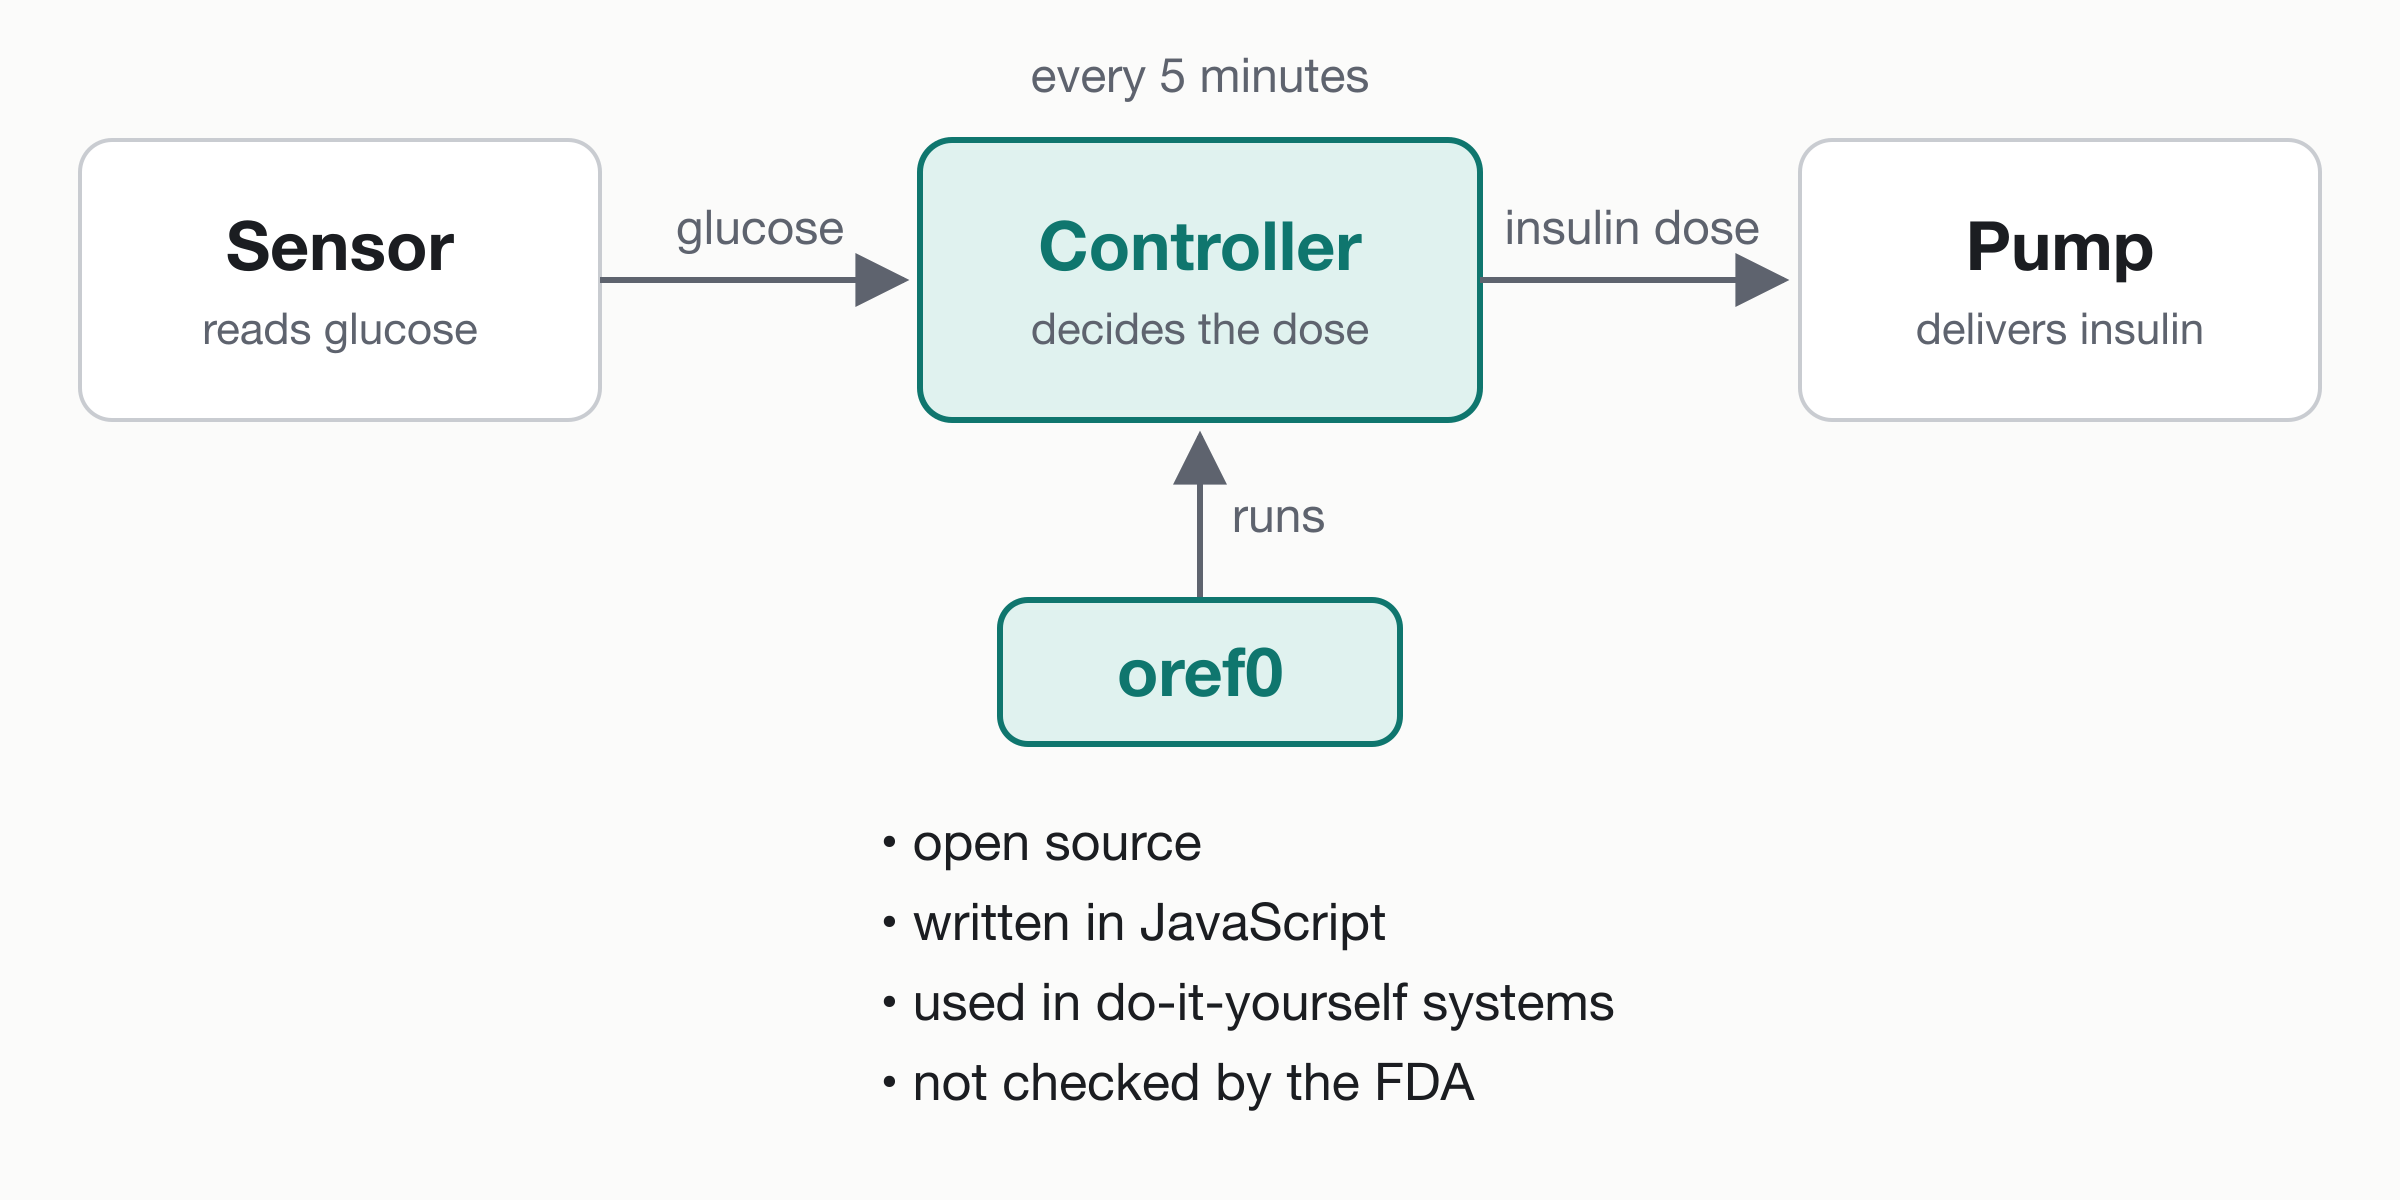
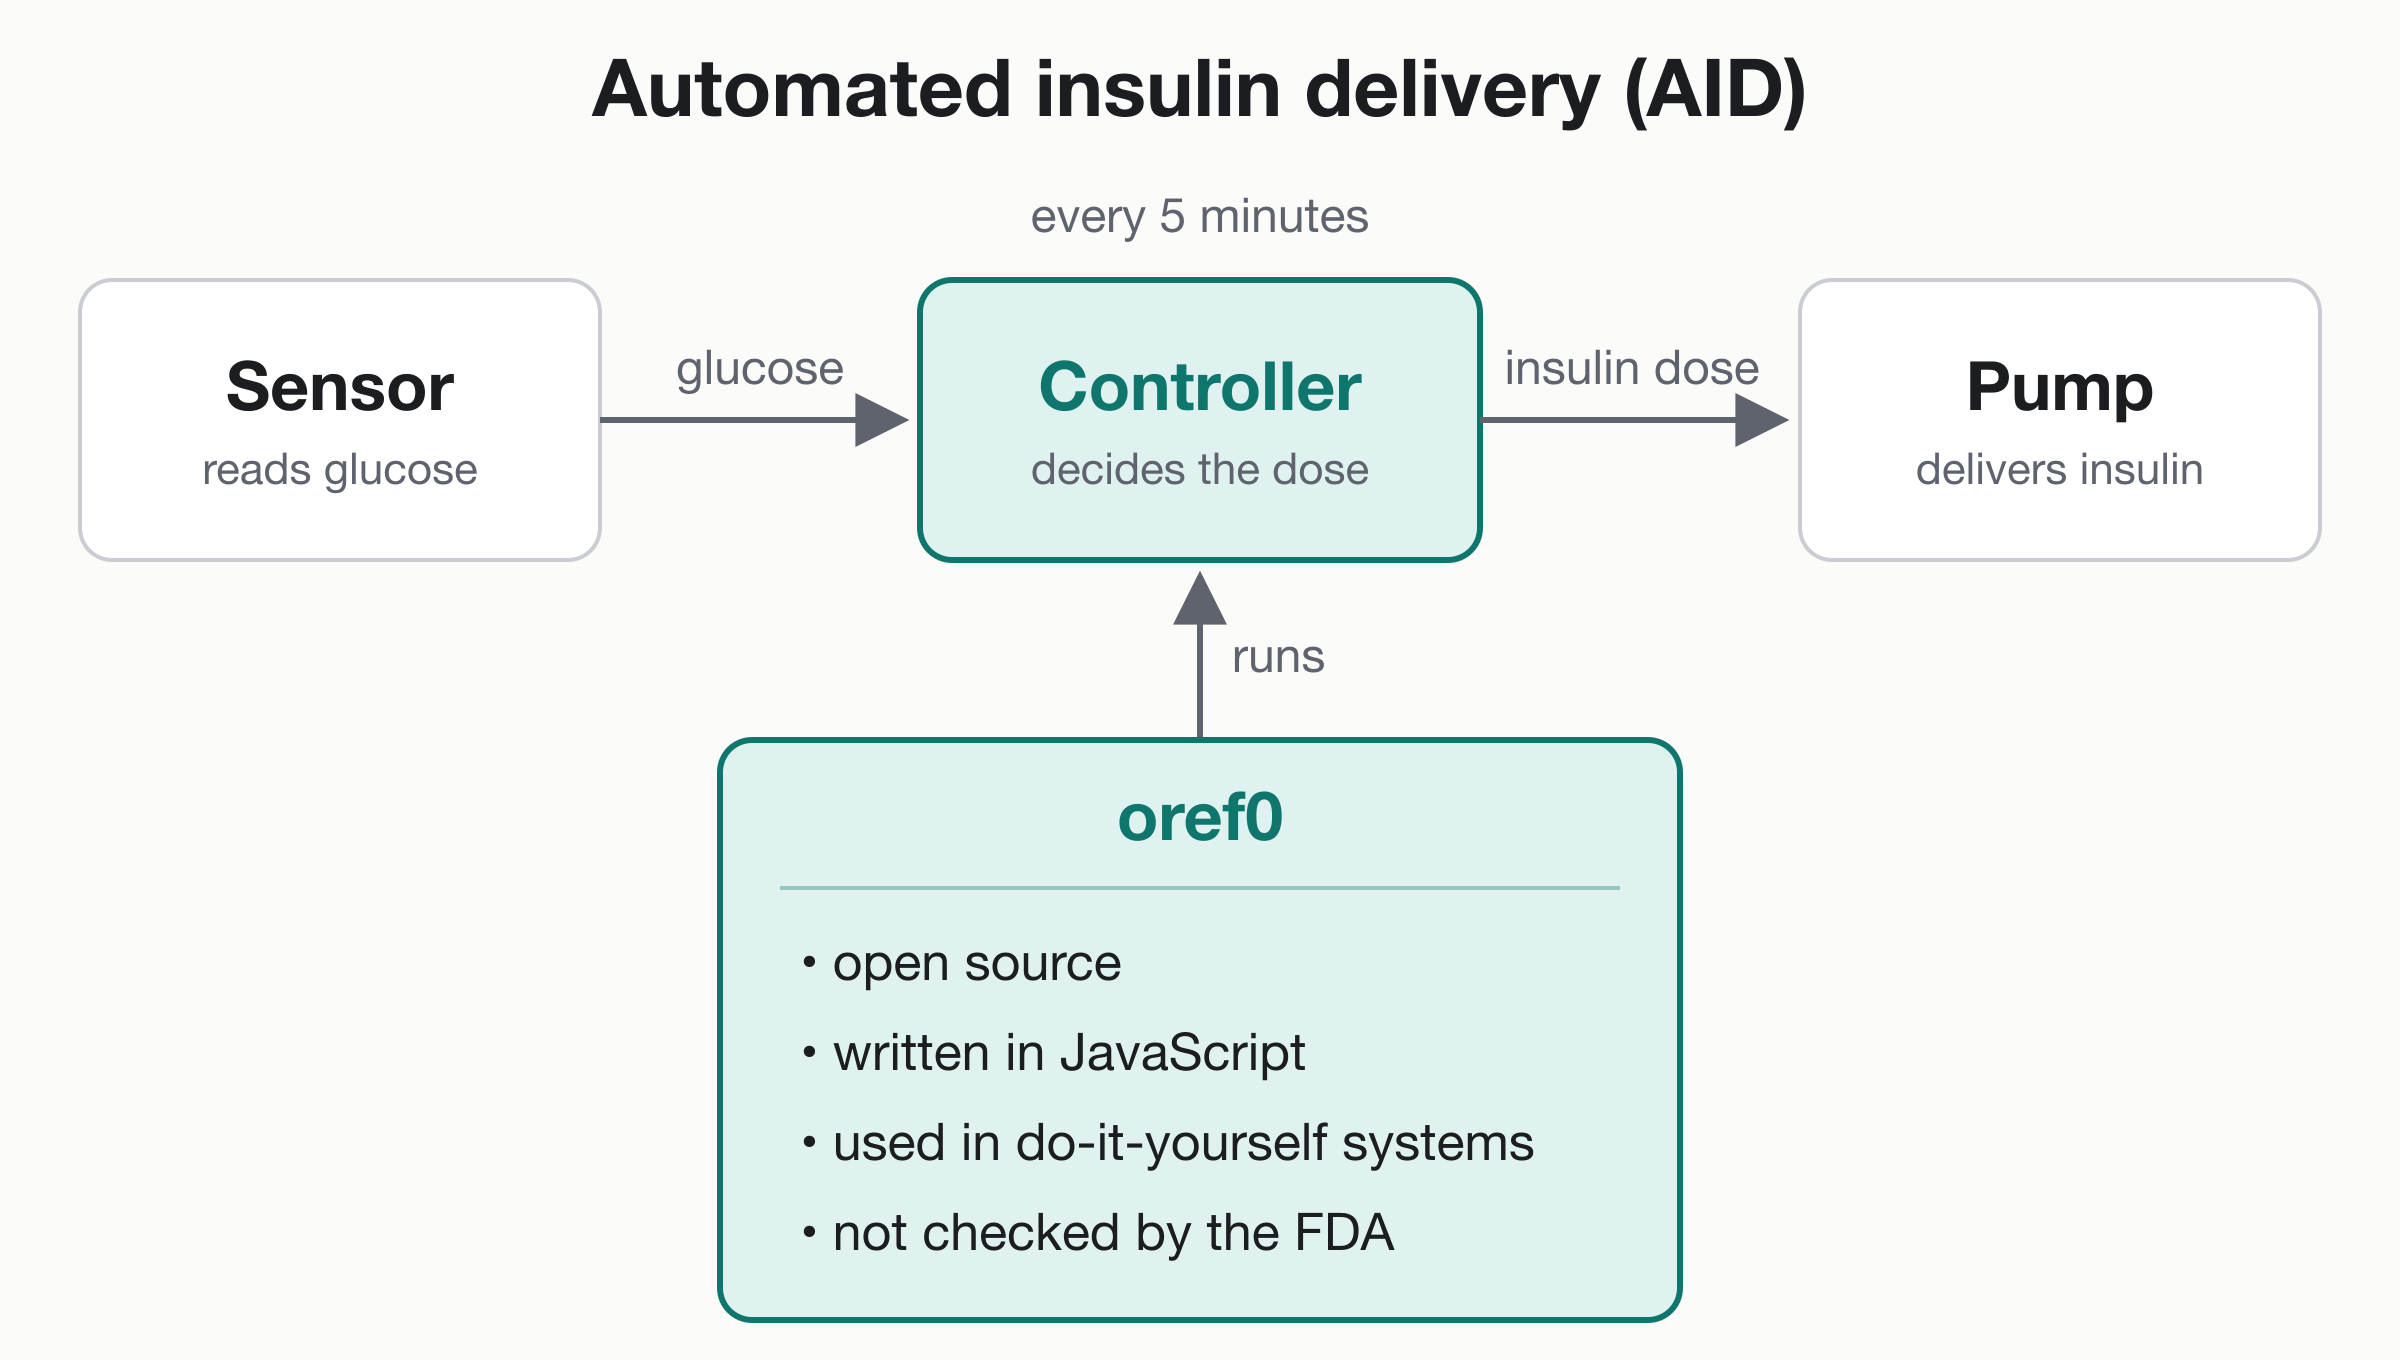
Diagram: title (automated insulin delivery) and the oref0 facts in one card

diff --git a/site/index.html b/site/index.html
@@ -289,7 +289,7 @@ footer li { margin: 3px 0; }
   <div class="wrap">
     <h2>Background</h2>
     <p class="sub">The project covers only the part that decides the dose: glucose readings in, an insulin amount out.</p>
-    <img class="diagram" src="img/loop.svg" width="1200" height="600" alt="A glucose sensor sends readings to the controller, which sends an insulin dose to the pump, every 5 minutes. The controller runs oref0: open source, written in JavaScript, used in do-it-yourself systems, not checked by the FDA.">
+    <img class="diagram" src="img/loop.svg" width="1200" height="680" alt="A glucose sensor sends readings to the controller, which sends an insulin dose to the pump, every 5 minutes. The controller runs oref0: open source, written in JavaScript, used in do-it-yourself systems, not checked by the FDA.">
     <div class="flow">
       <div class="node"><b>Glucose sensor</b>a reading every 5 min</div>
       <div class="arrow">glucose</div>
